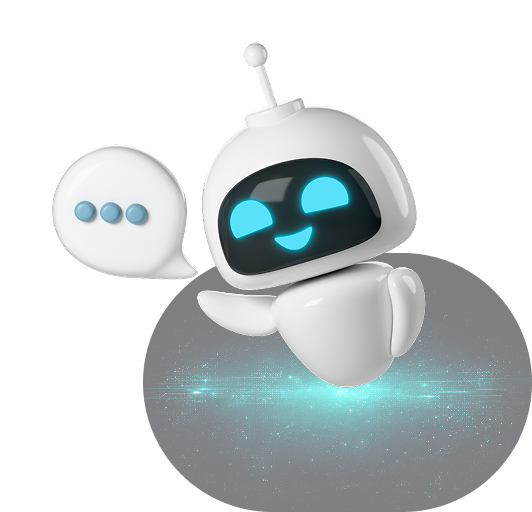
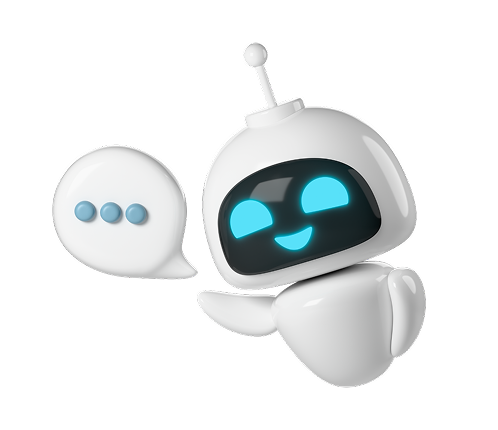
arrumando a responsividade

diff --git a/src/layout/ecossitema/style.css b/src/layout/ecossitema/style.css
@@ -163,10 +163,78 @@
     inset 0 0 0 1px rgba(40,217,255,.15);
 }
 
-@media(max-width:900px){
+/* ===================
+   RESPONSIVIDADE
+=================== */
+
+@media (max-width: 1200px){
+
+    .titulo-ecossistema h1{
+        font-size:48px;
+    }
+
+    .texto-ecossistema p{
+        font-size:18px;
+        line-height:32px;
+    }
+
+}
+
+@media (max-width: 900px){
+
+    .container-textos{
+        margin:0 auto 70px;
+        padding:0 25px;
+    }
+
+    .titulo-ecossistema h1{
+        font-size:42px;
+        line-height:1.15;
+        padding:60px 0 24px;
+    }
+
+    .texto-ecossistema p{
+        font-size:17px;
+        line-height:30px;
+    }
 
     .cards-eco{
         grid-template-columns:1fr;
+        padding:0 25px;
+    }
+
+}
+
+@media (max-width: 600px){
+
+    .titulo-ecossistema h1{
+        font-size:34px;
+        line-height:1.18;
+        padding:45px 0 20px;
+    }
+
+    .texto-ecossistema p{
+        font-size:16px;
+        line-height:28px;
+    }
+
+}
+
+@media (max-width: 400px){
+
+    .container-textos{
+        padding:0 18px;
+    }
+
+    .titulo-ecossistema h1{
+        font-size:30px;
+        line-height:1.2;
+        padding:35px 0 18px;
+    }
+
+    .texto-ecossistema p{
+        font-size:15px;
+        line-height:26px;
     }
 
 }

diff --git a/src/index.css b/src/index.css
@@ -3,6 +3,7 @@
 :root{
     --font-primary:"Poppins",sans-serif;
     --font-secondary:"Lato",sans-serif;
+
 }
 
 *{
@@ -18,12 +19,12 @@ body,
     min-height:100%;
 }
 
-body{
-    overflow-x:hidden;
-    color: #010206;
-    font-family:var(--font-secondary);
+:root{
+    --font-primary:"Poppins",sans-serif;
+    --font-secondary:"Lato",sans-serif;
 }
 
+/* Títulos */
 h1,
 h2,
 h3,
@@ -31,6 +32,31 @@ h4,
 h5,
 h6{
     font-family:var(--font-primary);
+}
+
+/* Todo o restante */
+body,
+p,
+span,
+a,
+button,
+input,
+textarea,
+select,
+option,
+label,
+small,
+strong,
+em,
+li,
+ul,
+ol,
+blockquote,
+figcaption,
+table,
+th,
+td{
+    font-family:var(--font-secondary);
 }
 
 button,
@@ -41,11 +67,28 @@ select{
 }
 
 body{
-    background:
-        radial-gradient(circle at 20% 10%, rgba(0,170,255,.12), transparent 30%),
-        radial-gradient(circle at 80% 70%, rgba(0,120,255,.08), transparent 35%),
-        linear-gradient(#04060d,#010206);
+    background-color:#05070d;
+
+    background-image:
+        radial-gradient(circle at 15% 20%, rgba(0,170,255,.18), transparent 30%),
+        radial-gradient(circle at 85% 15%, rgba(0,255,255,.08), transparent 28%),
+        radial-gradient(circle at 50% 80%, rgba(0,110,255,.12), transparent 35%),
+        linear-gradient(rgba(255,255,255,.025) 1px, transparent 1px),
+        linear-gradient(90deg, rgba(255,255,255,.025) 1px, transparent 1px);
+
+    background-size:
+        100% 100%,
+        100% 100%,
+        100% 100%,
+        70px 70px,
+        70px 70px;
+
+    background-attachment:fixed;
+
+    color:#fff;
+    overflow-x:hidden;
 }
+
 
 body::before{
     content:"";
@@ -74,3 +117,8 @@ body::after{
     z-index:-1;
 }
 
+
+
+p,span,button,a{
+    font-family:var(--font-secondary);
+}

diff --git a/src/pages/blog/style.css b/src/pages/blog/style.css
@@ -2,7 +2,6 @@
     position: relative;
     width: 100%;
     min-height: 100vh;
-    background: #05070b;
     color: #fff;
     overflow: hidden;
 }

diff --git a/src/pages/news/style.css b/src/pages/news/style.css
@@ -3,7 +3,6 @@
     min-height:100vh;
     position:relative;
     overflow:hidden;
-    background:#040608;
     color:#fff;
 }
 